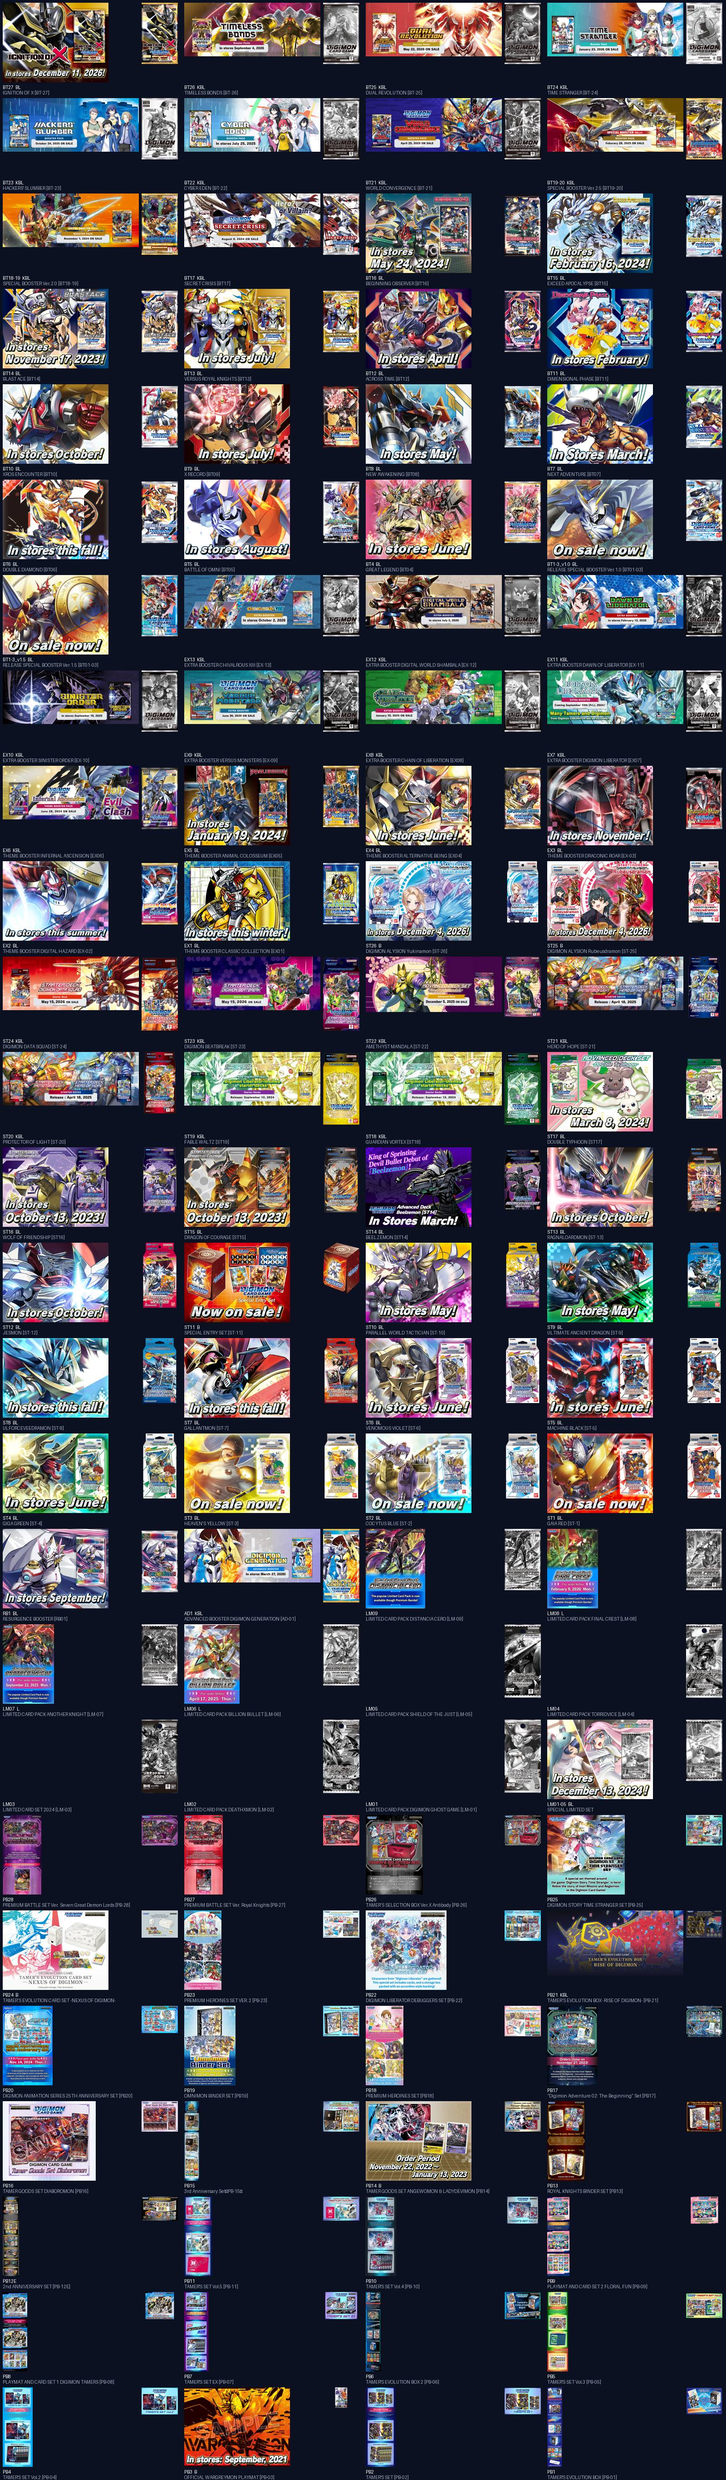
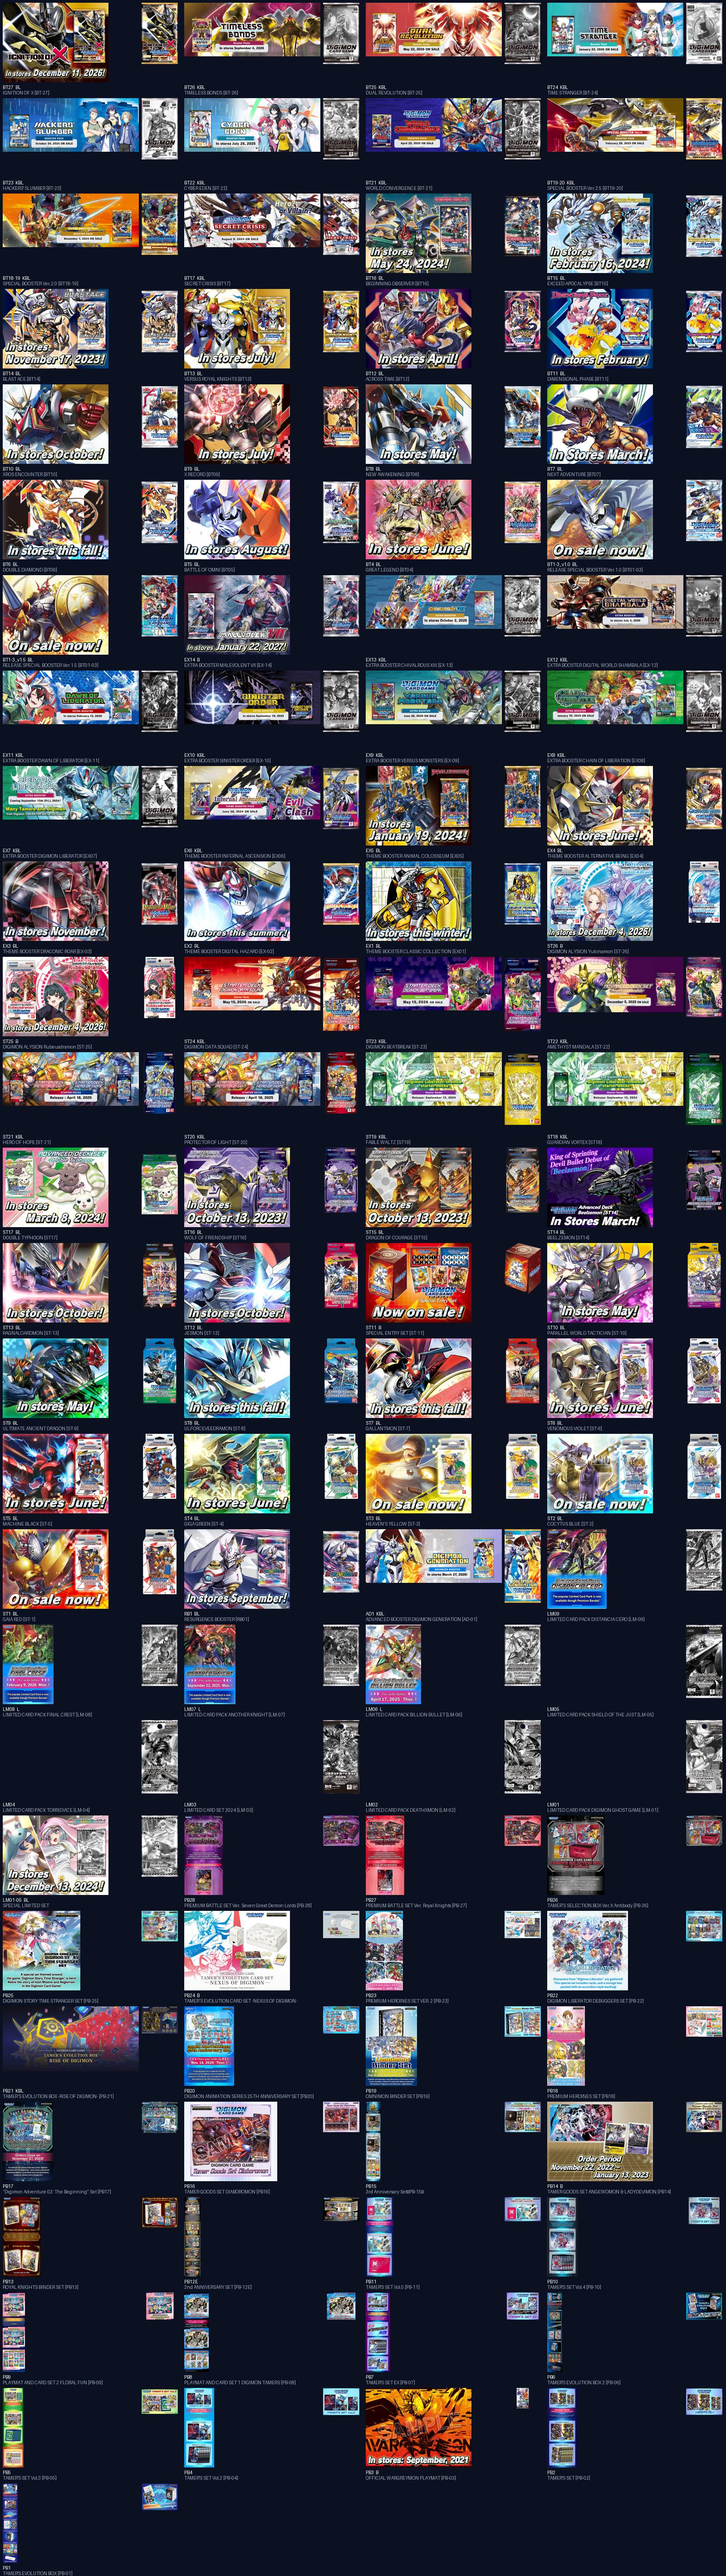
Loghi e artwork aggiornati (run 19)

diff --git a/README.md b/README.md
@@ -39,6 +39,7 @@ Il sito Bandai non pubblica i **loghi trasparenti** (`logo.*`) come file separat
 
 | Set | Logo | Artwork | Confezione |
 |---|---|---|---|
+| **EX14**<br>EXTRA BOOSTER MALEVOLENT VII [EX-14]<br>January 22, 2027<br>[banner](EX14/banner.jpg), [confezione](EX14/confezione.png) | — | <img src="EX14/banner.jpg" width="320"> | <img src="EX14/confezione.png" width="70"> |
 | **EX13**<br>EXTRA BOOSTER CHIVALROUS XIII [EX-13]<br>October 2, 2026<br>[keyvisual](EX13/keyvisual.webp), [keyvisual-verticale](EX13/keyvisual-verticale.webp), [banner](EX13/banner.jpg), [confezione](EX13/confezione.webp), [logo](EX13/logo.webp) | <img src="EX13/logo.webp" width="200"> | <img src="EX13/keyvisual.webp" width="320"> | <img src="EX13/confezione.webp" width="70"> |
 | **EX12**<br>EXTRA BOOSTER DIGITAL WORLD SHAMBALA [EX-12]<br>July 3, 2026<br>[keyvisual](EX12/keyvisual.jpg), [keyvisual-verticale](EX12/keyvisual-verticale.jpg), [banner](EX12/banner.jpg), [confezione](EX12/confezione.png), [logo](EX12/logo.webp) | <img src="EX12/logo.webp" width="200"> | <img src="EX12/keyvisual.jpg" width="320"> | <img src="EX12/confezione.png" width="70"> |
 | **EX11**<br>EXTRA BOOSTER DAWN OF LIBERATOR [EX-11]<br>February 13, 2026<br>[keyvisual](EX11/keyvisual.jpg), [keyvisual-verticale](EX11/keyvisual-verticale.jpg), [banner](EX11/banner.jpg), [confezione](EX11/confezione.png), [logo](EX11/logo.webp) | <img src="EX11/logo.webp" width="200"> | <img src="EX11/keyvisual.jpg" width="320"> | <img src="EX11/confezione.png" width="70"> |
